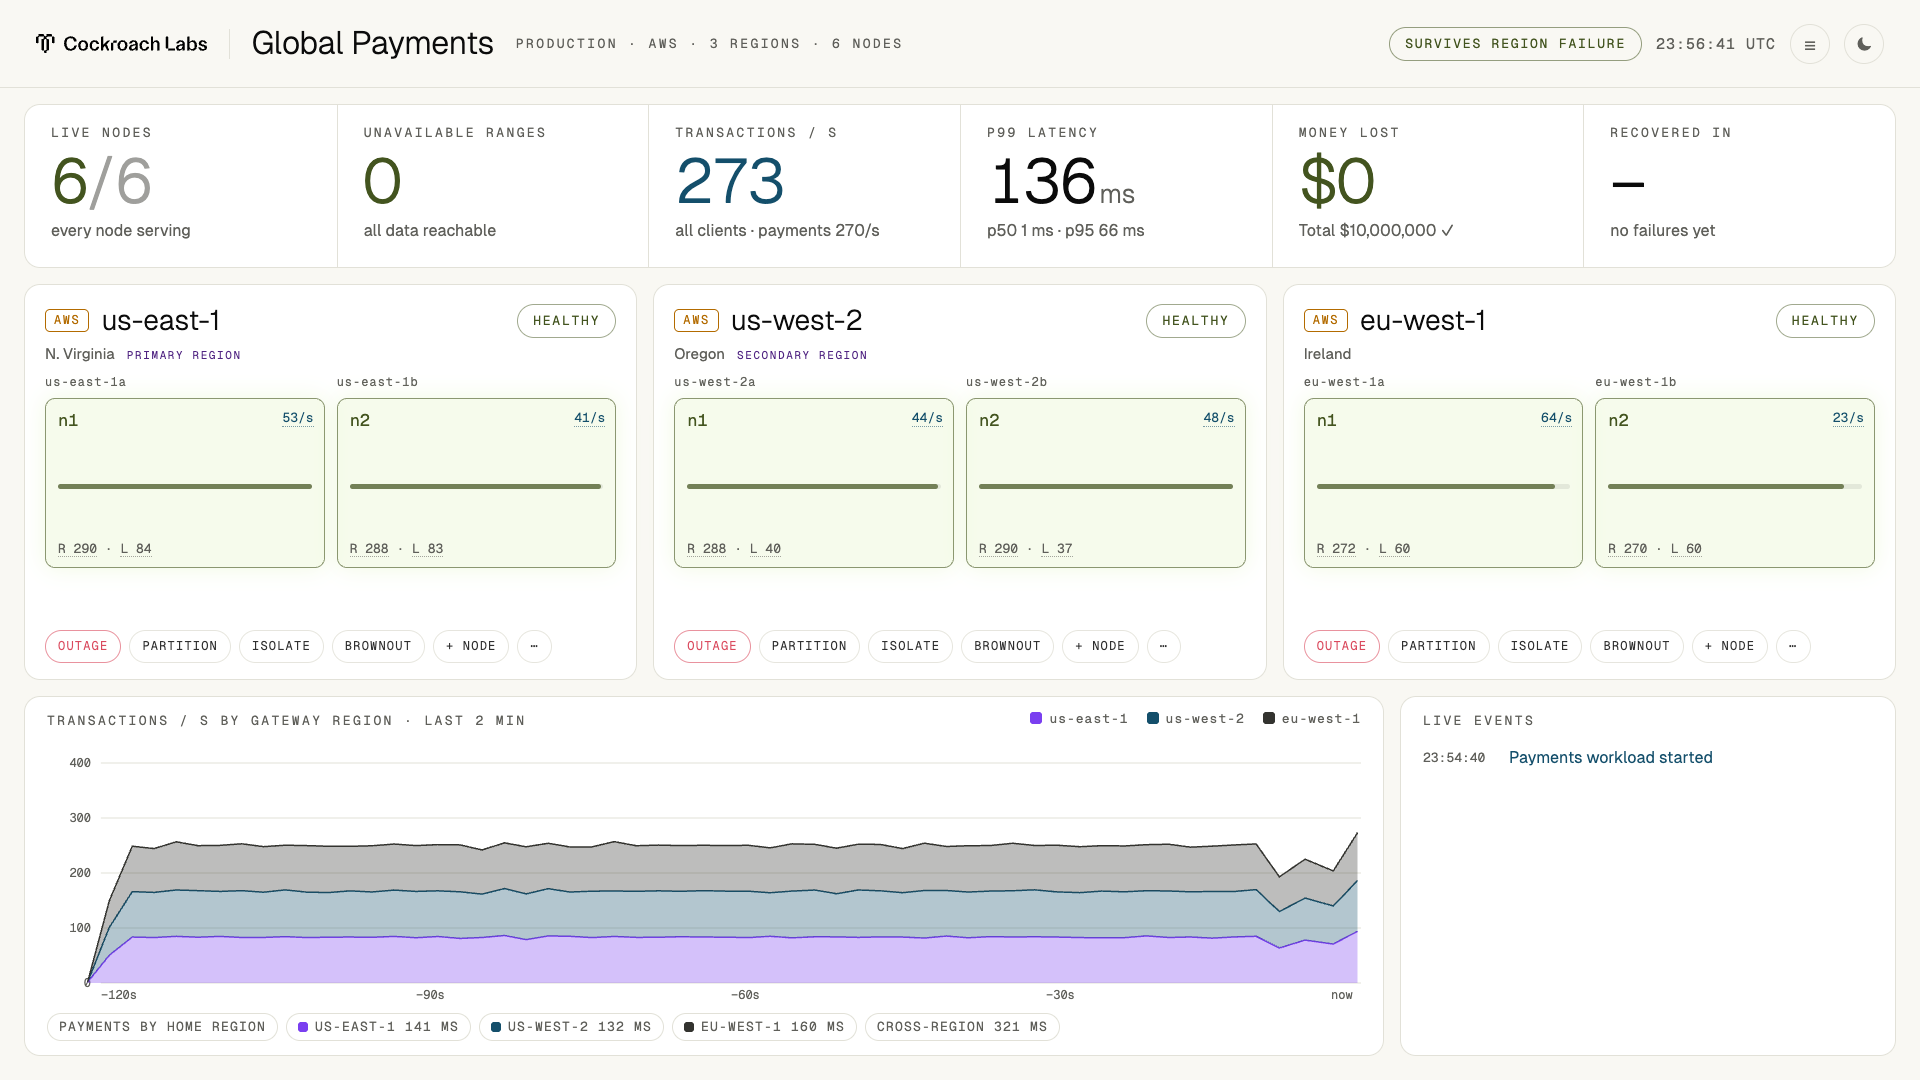
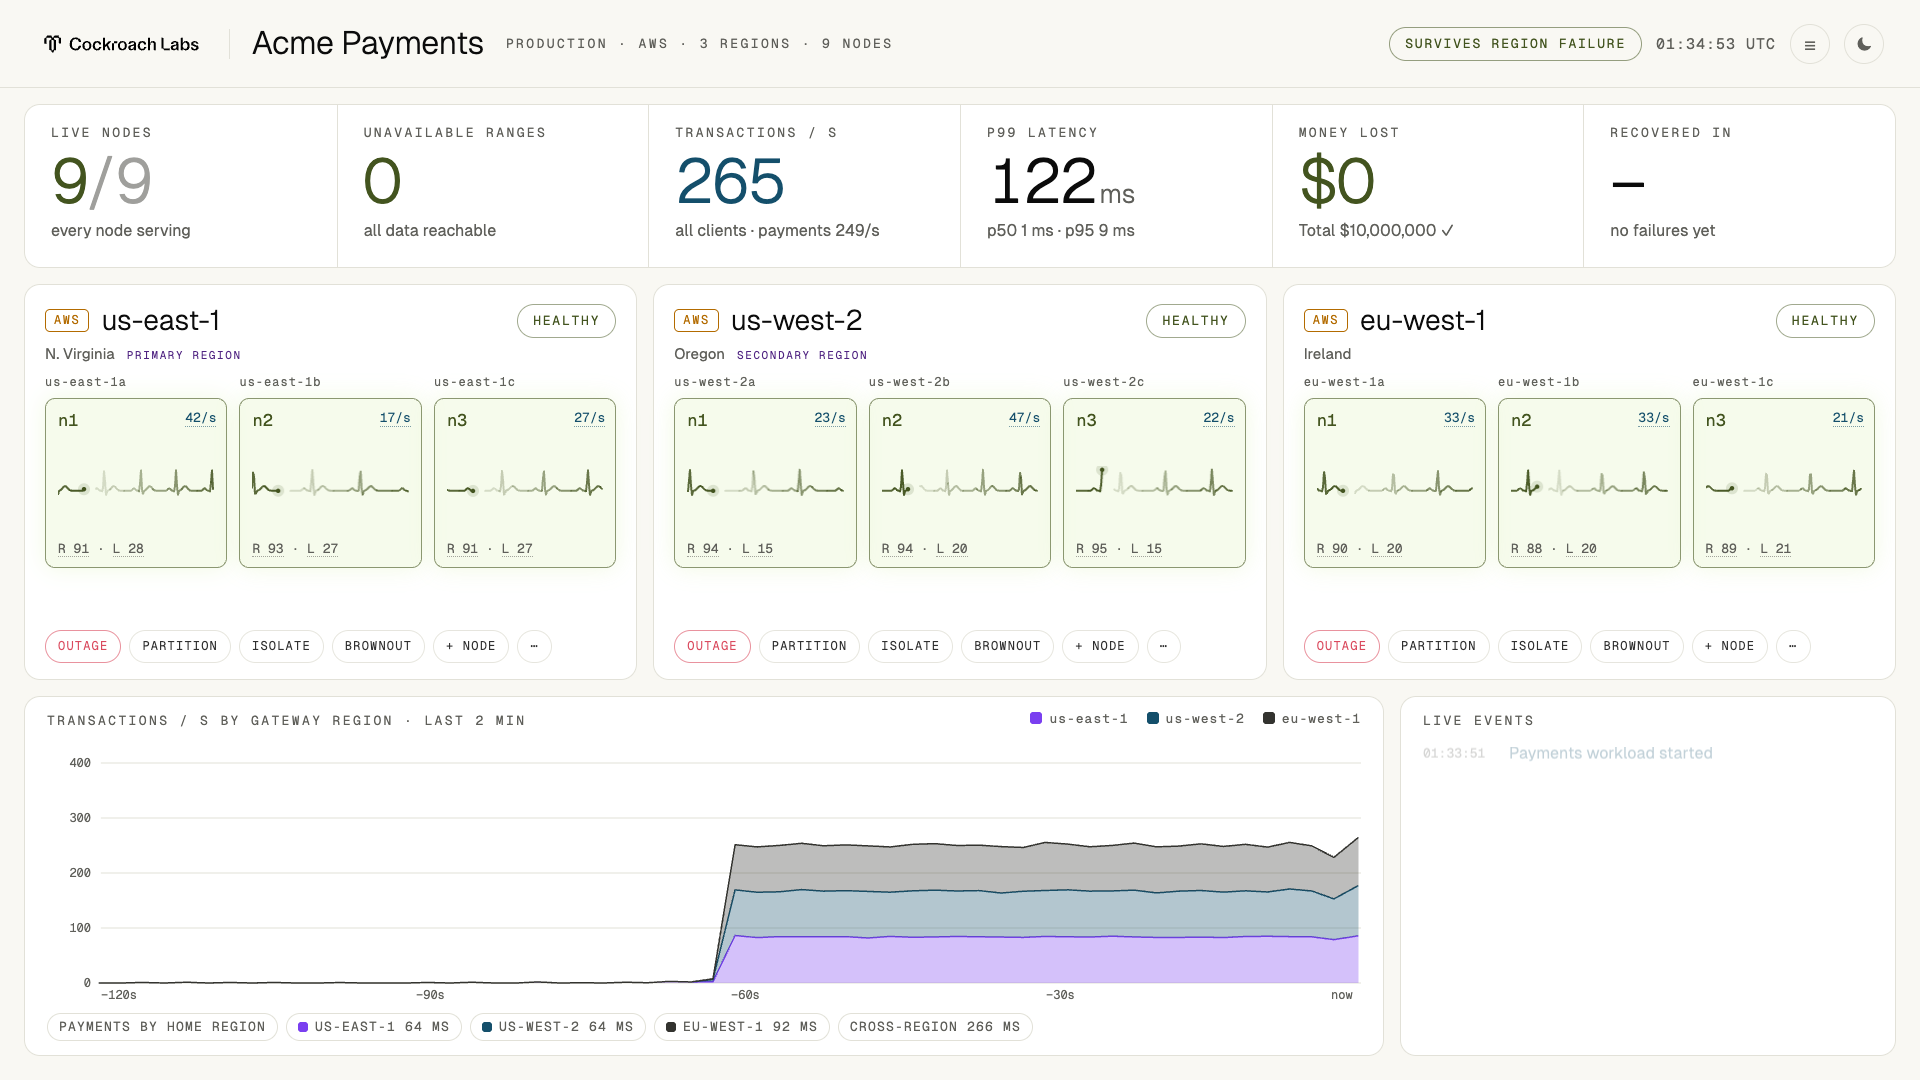
The demo's bank is Acme Payments
The default name in every preset, the presenting guide, the tests and the proof run is now the fictional
Acme Payments (cluster id acme-payments). The README's stage and presenter screenshots are retaken with the
new name, on a 9-node cluster.

Built from c444f06413d9.

diff --git a/tests/unit/test_topology.py b/tests/unit/test_topology.py
@@ -16,7 +16,7 @@ def parse(data, name="t"):
 
 
 def aws3():
-    return {"display_name": "Global Payments", "cluster_id": "global-payments", "regions": [
+    return {"display_name": "Acme Payments", "cluster_id": "acme-payments", "regions": [
         {"name": "us-east-1", "provider": "aws", "nodes": 3, "primary": True},
         {"name": "us-west-2", "provider": "aws", "nodes": 3, "secondary": True},
         {"name": "eu-west-1", "provider": "aws", "nodes": 3},
@@ -174,7 +174,7 @@ def test_deployment_model_is_validated():
 
 
 def stretch():
-    return {"display_name": "Global Payments", "cluster_id": "global-payments", "regions": [
+    return {"display_name": "Acme Payments", "cluster_id": "acme-payments", "regions": [
         {"name": "us-east-1", "provider": "aws", "nodes": 2, "primary": True},
         {"name": "eastus", "provider": "azure", "nodes": 2, "secondary": True},
         {"name": "us-east4", "provider": "gcp", "nodes": 1, "tie_breaker": True},

diff --git a/tools/prove.py b/tools/prove.py
@@ -931,7 +931,7 @@ def main() -> int:
         html_ = render_chaos((ROOT / "web" / "explainers" / "chaos.html").read_text(), azure, catalog, "Contoso Pay")
         r = browser(p, [{"do": "open", "url": f"{PANEL}/explainer/chaos?capture=1&t=20", "settle": 4000},
                         {"do": "shot", "file": p.shot("explainer-chaos")}])
-        ev.update({"explainers offered": listed, "names the running cluster": "Global Payments" in page and "us-east-1" in page,
+        ev.update({"explainers offered": listed, "names the running cluster": "Acme Payments" in page and "us-east-1" in page,
                    "azure preset gets azure regions": "eastus" in html_ and "us-east-1" not in html_.split("<script>")[1][:20000],
                    "frame": p.shot("explainer-chaos")})
         check("chaos" in listed and ev["names the running cluster"] and ev["azure preset gets azure regions"], "explainer checks failed")

diff --git a/tests/unit/test_provisioner.py b/tests/unit/test_provisioner.py
@@ -127,7 +127,7 @@ def test_provision_creates_every_node_inits_bootstraps_and_routes(tmp_path):
     assert [r[0] for r in docker.ran] == [n.name for n in CLASSIC.nodes]
     assert docker.ran[0][1] == ("us-east-1a-n1:26257", "us-east-1b-n2:26257", "us-west-2a-n1:26257")
     init = docker.execs[0][1]
-    assert init[:2] == ["/cockroach/cockroach", "init"] and "--cluster-name=global-payments" in init
+    assert init[:2] == ["/cockroach/cockroach", "init"] and "--cluster-name=acme-payments" in init
     assert 'ALTER DATABASE defaultdb SET PRIMARY REGION "us-east-1"' in db.executed
     assert p._lb.applied[-1] == [n.name for n in CLASSIC.nodes]
     assert load_state(tmp_path)["provisioned"] is True

diff --git a/tests/unit/test_elastic.py b/tests/unit/test_elastic.py
@@ -171,7 +171,7 @@ def test_decommission_drains_then_removes_and_reroutes(tmp_path):
     assert op["status"] == "done", op
     cmds = [c for _, c in docker.execs]
     assert cmds[0][:3] == ["/cockroach/cockroach", "node", "decommission"] and "4" in cmds[0] and "--wait=none" in cmds[0]
-    assert "--cluster-name=global-payments" in cmds[0]
+    assert "--cluster-name=acme-payments" in cmds[0]
     assert docker.execs[0][0] != "us-west-2b-n2"  # run from another node
     assert docker.removed == ["us-west-2b-n2"] and "us-west-2b-n2" not in lb.applied[-1]
     assert all(n.name != "us-west-2b-n2" for n in prov.topology.nodes)

diff --git a/tests/unit/test_docker_ops.py b/tests/unit/test_docker_ops.py
@@ -34,7 +34,7 @@ def test_node_run_args_carry_identity_locality_and_limits():
     assert args[i + 1:i + 3] == ["start", "--insecure"]
     assert "--advertise-addr=us-east-1a-n1:26257" in args
     assert "--locality=cloud=aws,region=us-east-1,zone=us-east-1a" in args
-    assert "--cluster-name=global-payments" in args
+    assert "--cluster-name=acme-payments" in args
     assert "--join=us-east-1a-n1:26257,us-east-1b-n2:26257" in args
     assert "--cache=256MiB" in args and "--max-sql-memory=256MiB" in args
 

diff --git a/tests/unit/test_stage_copy.py b/tests/unit/test_stage_copy.py
@@ -28,7 +28,7 @@ def test_customer_name_comes_from_presets_not_code():
     for folder in ("controlplane", "web"):
         for path in (ROOT / folder).rglob("*"):
             if path.suffix in (".py", ".js", ".html", ".css"):
-                assert "Global Payments" not in path.read_text(encoding="utf-8"), path
+                assert "Acme Payments" not in path.read_text(encoding="utf-8"), path
 
 
 def test_shared_tooltip_wording_follows_the_stage_rules():

diff --git a/README.md b/README.md
@@ -12,7 +12,7 @@ puts a global load balancer in front of it, and gives you:
 - a built-in **Payments** workload with a $10,000,000 invariant, plus Banko AI Assistant support
 - thirteen guided **scenarios**, a **booth mode** with hardware triggers, and a **motion explainer**
 
-![The stage during a primary-region outage: us-east-1 down, 4 of 6 nodes live, no unavailable ranges, $0 lost, payments recovered in 8.1 s](docs/images/stage-region-outage.png)
+![The stage during a primary-region outage: us-east-1 down, 6 of 9 nodes live, no unavailable ranges, $0 lost, payments recovered in 9.5 s](docs/images/stage-region-outage.png)
 
 *The stage during a primary-region outage under load: us-east-1 is down, every range is still available, no money
 is lost, and payments are back to normal in 8.1 s at the full 250 transfers/s, with us-east-1's customers served

diff --git a/docs/presenting.md b/docs/presenting.md
@@ -15,7 +15,7 @@
 The stage never says where it runs: no hostnames, ports or connection strings, and provisioning reads like a
 cloud ("Allocating capacity in us-east-1…"). Keep the presenter console and terminals off the big screen. If you
 want a cloud-looking address in the browser bar, add a hosts-file entry such as
-`127.0.0.1 console.global-payments.example` and open `http://console.global-payments.example:8088`.
+`127.0.0.1 console.acme-payments.example` and open `http://console.acme-payments.example:8088`.
 
 ## 5 minutes: "you can't break it"
 
